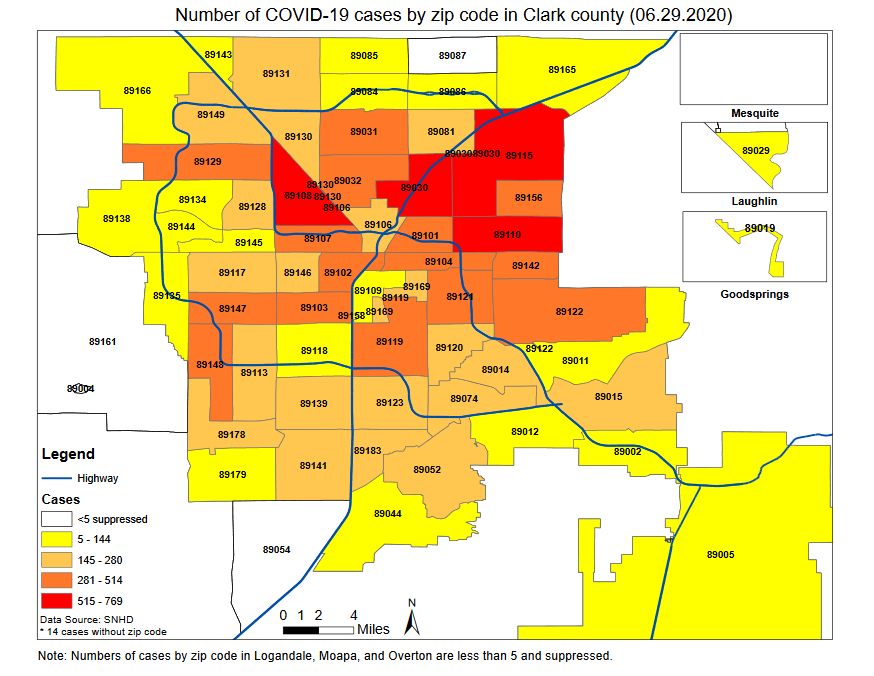
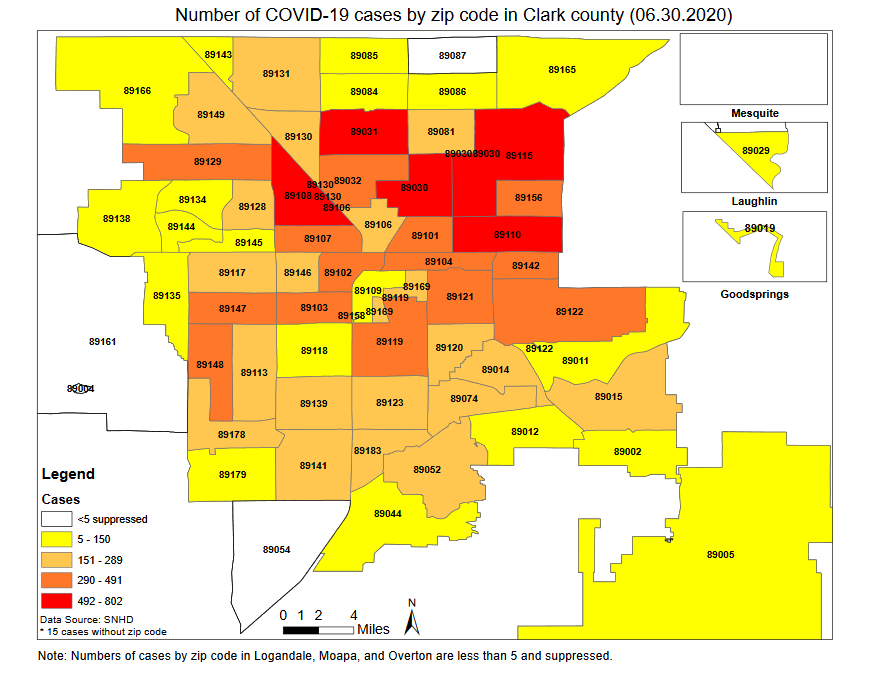
Day 119

diff --git a/src/pages/clarkcounty.js b/src/pages/clarkcounty.js
@@ -134,6 +134,7 @@ class ClarkPage extends Component {
 				'6/27/20',
 				'6/28/20',
 				'6/29/20',
+				'6/30/20',
 			],
 			datasets: [
 				{
@@ -258,6 +259,7 @@ class ClarkPage extends Component {
 						13910,
 						14607,
 						15095,
+						15604,
 					],
 				},
 			],
@@ -383,6 +385,7 @@ class ClarkPage extends Component {
 				'6/27/20',
 				'6/28/20',
 				'6/29/20',
+				'6/30/20',
 			],
 			datasets: [
 				{
@@ -507,6 +510,7 @@ class ClarkPage extends Component {
 						736,
 						697,
 						488,
+						509,
 					],
 				},
 			],
@@ -612,6 +616,7 @@ class ClarkPage extends Component {
 				'6/27/20',
 				'6/28/20',
 				'6/29/20',
+				'6/30/20',
 			],
 			datasets: [
 				{
@@ -716,6 +721,7 @@ class ClarkPage extends Component {
 						1948,
 						1950,
 						1971,
+						2007,
 					],
 				},
 			],
@@ -820,6 +826,7 @@ class ClarkPage extends Component {
 				'6/27/20',
 				'6/28/20',
 				'6/29/20',
+				'6/30/20',
 			],
 			datasets: [
 				{
@@ -924,6 +931,7 @@ class ClarkPage extends Component {
 						1,
 						2,
 						21,
+						36,
 					],
 				},
 			],
@@ -1049,6 +1057,7 @@ class ClarkPage extends Component {
 				'6/27/20',
 				'6/28/20',
 				'6/29/20',
+				'6/30/20',
 			],
 			datasets: [
 				{
@@ -1172,6 +1181,7 @@ class ClarkPage extends Component {
 						410,
 						414,
 						416,
+						420,
 					],
 					backgroundColor: 'maroon',
 				},
@@ -1286,6 +1296,7 @@ class ClarkPage extends Component {
 				'6/27/20',
 				'6/28/20',
 				'6/29/20',
+				'6/30/20',
 			],
 			datasets: [
 				{
@@ -1398,6 +1409,7 @@ class ClarkPage extends Component {
 						0,
 						4,
 						2,
+						4,
 					],
 				},
 			],
@@ -1523,6 +1535,7 @@ class ClarkPage extends Component {
 				'6/27/20',
 				'6/28/20',
 				'6/29/20',
+				'6/30/20',
 			],
 			datasets: [
 				{
@@ -1633,21 +1646,22 @@ class ClarkPage extends Component {
 						7.5,
 						7.7,
 						8.2,
-						7.9,
+						7.8,
 						8.5,
-						9.2,
-						9.5,
+						9.3,
+						9.6,
 						9.7,
-						10.0,
 						10.1,
-						10.5,
+						10.2,
 						10.6,
-						10.6,
+						10.7,
+						10.7,
 						11.0,
-						11.6,
-						11.8,
-						11.8,
-						12.8,
+						11.7,
+						12.0,
+						12.1,
+						12.4,
+						12.4,
 					],
 				},
 				{
@@ -1723,6 +1737,7 @@ class ClarkPage extends Component {
 						null,
 						null,
 						null,
+						6.9,
 						6.9,
 						6.9,
 						6.9,
@@ -1903,6 +1918,7 @@ class ClarkPage extends Component {
 						3.9,
 						3.9,
 						3.9,
+						3.9,
 					],
 				},
 			],
@@ -1913,7 +1929,7 @@ class ClarkPage extends Component {
 			datasets: [
 				{
 					label: 'Age of Cases',
-					data: [272, 962, 1692, 7042, 3128, 1996],
+					data: [277, 1011, 1778, 7272, 3226, 2037],
 					backgroundColor: [
 						'rgb(54, 162, 235)', //blue
 						'rgb(255, 99, 132)', //salmon
@@ -1931,7 +1947,7 @@ class ClarkPage extends Component {
 			datasets: [
 				{
 					label: 'Sex',
-					data: [7744, 7214, 137],
+					data: [8008, 7453, 143],
 					backgroundColor: [
 						'rgb(255, 99, 132)',
 						'rgb(54, 162, 235)',
@@ -1973,7 +1989,7 @@ class ClarkPage extends Component {
 											</div>
 										</div>
 										<div className='card-value pt-4'>
-											<h1>15,095</h1>
+											<h1>15,604</h1>
 										</div>
 									</div>
 								</div>
@@ -1985,7 +2001,7 @@ class ClarkPage extends Component {
 											</div>
 										</div>
 										<div className='card-value pt-4'>
-											<h1>1,971</h1>
+											<h1>2,007</h1>
 										</div>
 									</div>
 								</div>
@@ -1997,7 +2013,7 @@ class ClarkPage extends Component {
 											</div>
 										</div>
 										<div className='card-value pt-4'>
-											<h1>61.8%</h1>
+											<h1>62.1%</h1>
 										</div>
 									</div>
 								</div>
@@ -2009,7 +2025,7 @@ class ClarkPage extends Component {
 											</div>
 										</div>
 										<div className='card-value pt-4'>
-											<h1>416</h1>
+											<h1>420</h1>
 										</div>
 									</div>
 								</div>

diff --git a/src/pages/nevada.js b/src/pages/nevada.js
@@ -129,6 +129,7 @@ class NevadaPage extends Component {
 				'6/27/20',
 				'6/28/20',
 				'6/29/20',
+				'6/30/20',
 			],
 			datasets: [
 				{
@@ -252,6 +253,7 @@ class NevadaPage extends Component {
 						17160,
 						17894,
 						18456,
+						19101,
 					],
 					fill: false, // Don't fill area under the line
 					backgroundColor: '#933A16', // Line color
@@ -378,6 +380,7 @@ class NevadaPage extends Component {
 				'6/27/20',
 				'6/28/20',
 				'6/29/20',
+				'6/30/20',
 			],
 			datasets: [
 				{
@@ -502,6 +505,7 @@ class NevadaPage extends Component {
 						821,
 						734,
 						562,
+						645,
 					],
 					fill: false, // Don't fill area under the line
 					backgroundColor: '#933A16', // Bar color
@@ -628,6 +632,7 @@ class NevadaPage extends Component {
 				'6/27/20',
 				'6/28/20',
 				'6/29/20',
+				'6/30/20',
 			],
 			datasets: [
 				{
@@ -748,9 +753,10 @@ class NevadaPage extends Component {
 						502,
 						503,
 						503,
-						504,
-						506,
-						506,
+						505,
+						507,
+						510,
+						510,
 					],
 					backgroundColor: 'maroon',
 				},
@@ -865,6 +871,7 @@ class NevadaPage extends Component {
 				'6/27/20',
 				'6/28/20',
 				'6/29/20',
+				'6/30/20',
 			],
 			datasets: [
 				{
@@ -974,8 +981,9 @@ class NevadaPage extends Component {
 						3,
 						1,
 						0,
-						1,
 						2,
+						2,
+						3,
 						0,
 					],
 				},
@@ -1082,6 +1090,7 @@ class NevadaPage extends Component {
 				'6/27/20',
 				'6/28/20',
 				'6/29/20',
+				'6/30/20',
 			],
 			datasets: [
 				{
@@ -1188,6 +1197,7 @@ class NevadaPage extends Component {
 						6.5,
 						6.6,
 						6.7,
+						6.8,
 					],
 				},
 				{
@@ -1287,13 +1297,14 @@ class NevadaPage extends Component {
 						7.3,
 						9.2,
 						9.8,
-						10.7,
-						11.9,
-						12.0,
+						11.6,
+						14.5,
 						14.7,
-						16.0,
-						15.7,
-						16.0,
+						15.0,
+						16.3,
+						16.1,
+						16.3,
+						15.4,
 					],
 				},
 				{
@@ -1349,6 +1360,7 @@ class NevadaPage extends Component {
 						null,
 						null,
 						null,
+						10.4,
 						10.4,
 						10.4,
 						10.4,
@@ -1508,6 +1520,7 @@ class NevadaPage extends Component {
 						6.0,
 						6.0,
 						6.0,
+						6.0,
 					],
 				},
 			],
@@ -1543,7 +1556,7 @@ class NevadaPage extends Component {
 										</div>
 									</div>
 									<div className='card-value pt-4'>
-										<h1>275,978</h1>
+										<h1>282,805</h1>
 									</div>
 								</div>
 							</div>
@@ -1555,7 +1568,7 @@ class NevadaPage extends Component {
 										</div>
 									</div>
 									<div className='card-value pt-4'>
-										<h1>259,112</h1>
+										<h1>264,995</h1>
 									</div>
 								</div>
 							</div>
@@ -1567,7 +1580,7 @@ class NevadaPage extends Component {
 										</div>
 									</div>
 									<div className='card-value pt-4'>
-										<h1>18,456</h1>
+										<h1>19,101</h1>
 									</div>
 								</div>
 							</div>
@@ -1579,7 +1592,7 @@ class NevadaPage extends Component {
 										</div>
 									</div>
 									<div className='card-value pt-4'>
-										<h1>506</h1>
+										<h1>510</h1>
 									</div>
 								</div>
 							</div>
